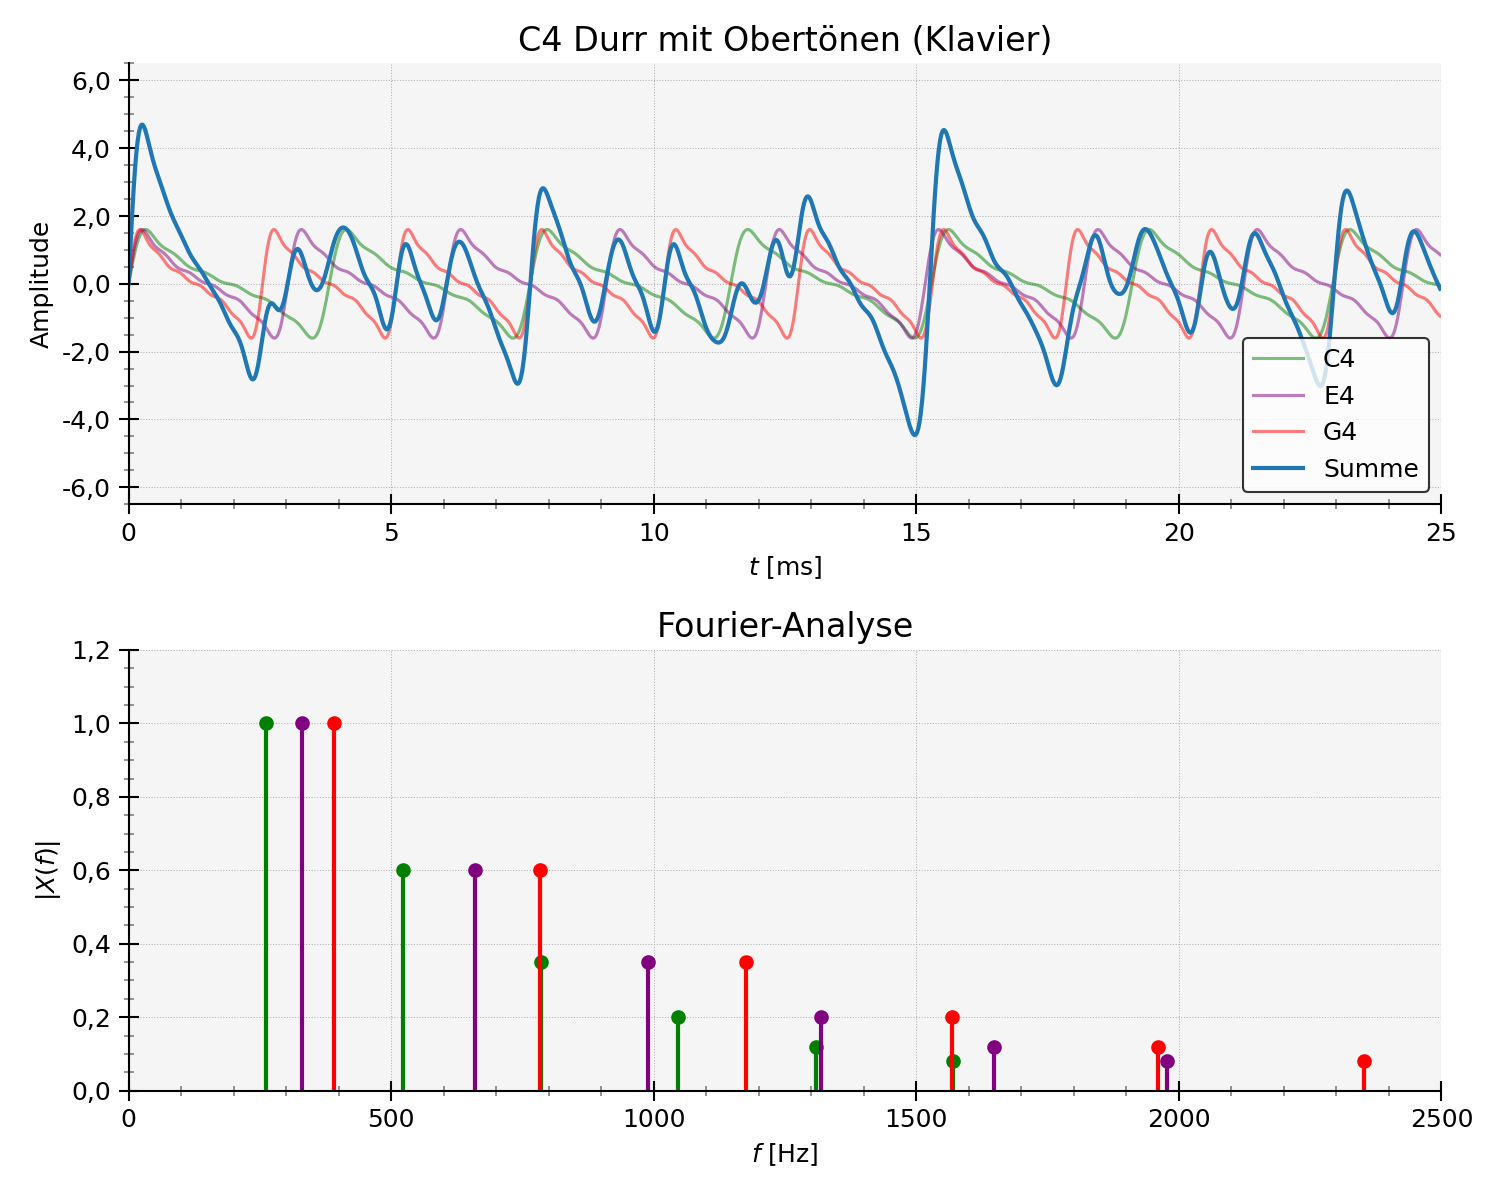
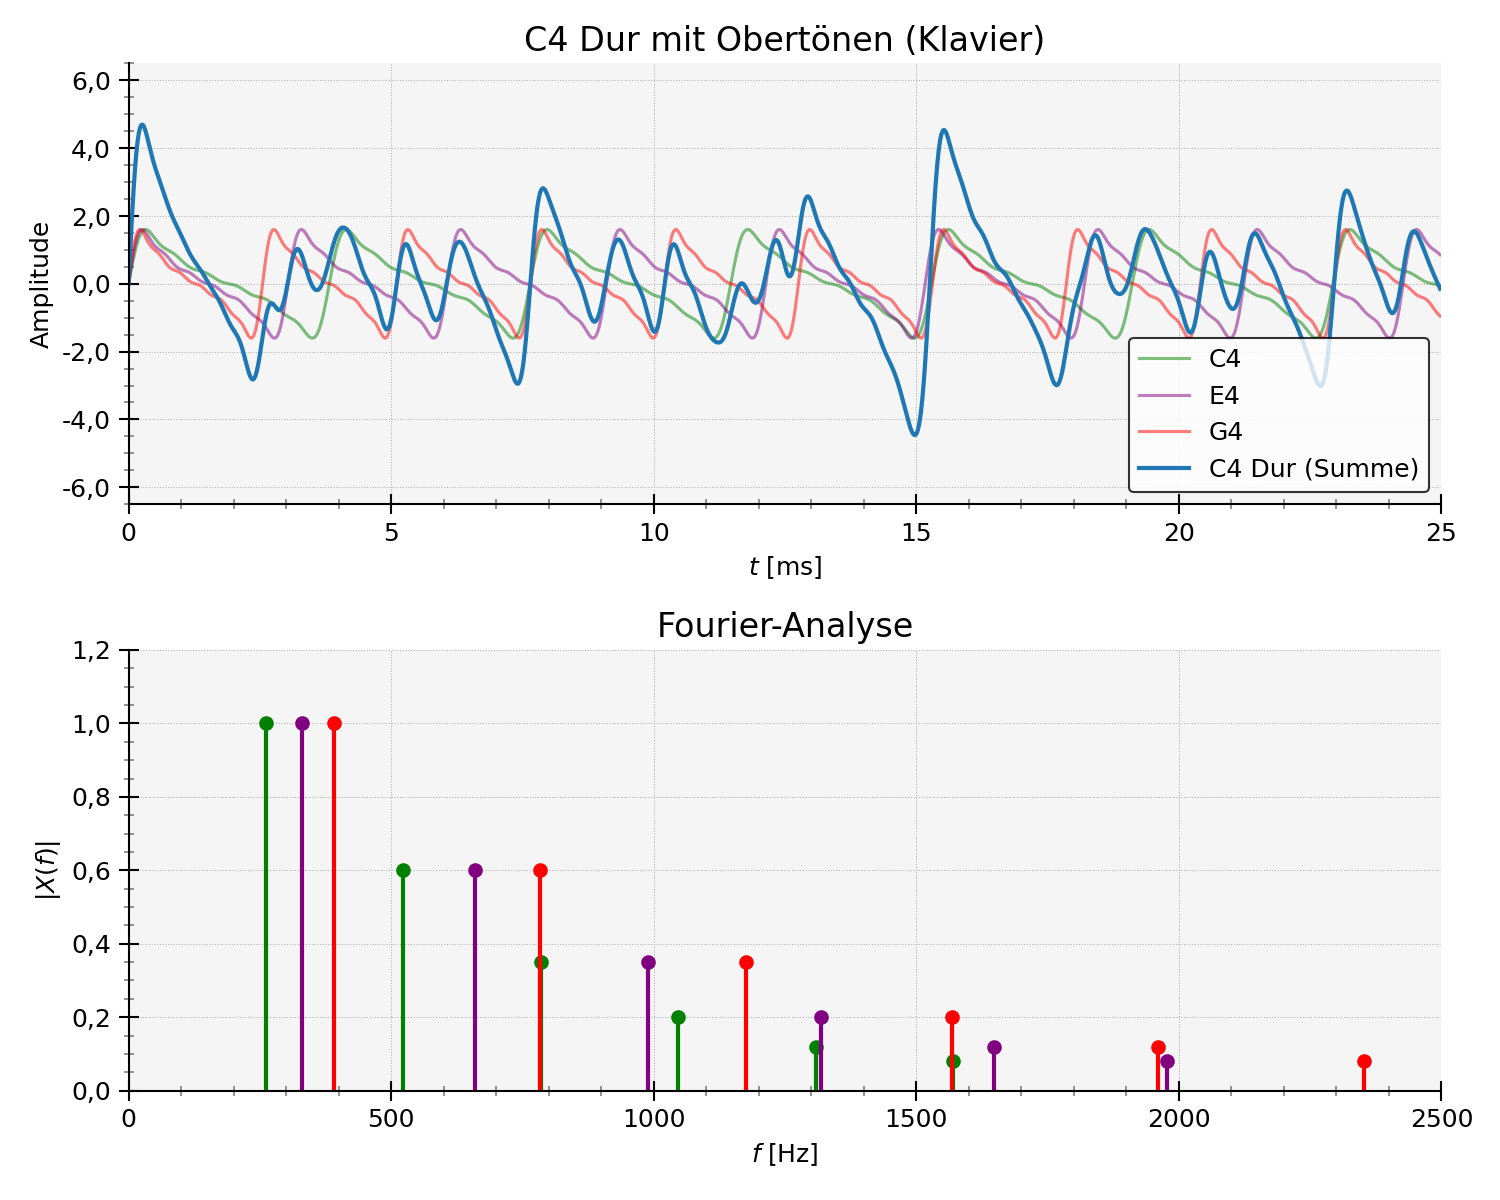
Update plot titles and labels for consistency in Fourier plot scripts

Changed region(s): [[0.3373, 0.0, 0.7053, 0.0617], [0.7667, 0.2775, 0.9507, 0.4008]]

diff --git a/source/python/rezepte/audio/toene_erzeugen_code/plot_fourier_akkord_obertoene.py b/source/python/rezepte/audio/toene_erzeugen_code/plot_fourier_akkord_obertoene.py
@@ -242,13 +242,13 @@ def chord_with_fft(
         ax_t.plot(t_time*1e3, tone, lw=1.5, color=color, alpha=0.5, label={name})
         tone = np.zeros_like(t_time)
 
-    ax_t.plot(t_time*1e3, sum, lw=2.0, color=ps.colors["blue"], label="Summe")
+    ax_t.plot(t_time*1e3, sum, lw=2.0, color=ps.colors["blue"], label=f"{note} {quality.capitalize()} (Summe)")
 
     ax_t.set_xlim(left=0, right=time*1e3)
     ax_t.set_ylim(bottom=-6.5, top=6.5)
     ax_t.set_xlabel(r"$t$ [ms]")
     ax_t.set_ylabel("Amplitude")
-    ax_t.set_title(f"{note} Durr mit Obertönen ({instrument.capitalize()})")
+    ax_t.set_title(f"{note} Dur mit Obertönen ({instrument.capitalize()})")
     ax_t.legend(
         loc="lower right",
         frameon=True,      # Rahmen aktivieren
@@ -279,7 +279,7 @@ def chord_with_fft(
 
 for instrument in list(INSTRUMENT_PARTIALS.keys()):
     PNG_PATH = FIG_DIR / (f"plot_akkord_C4-Major-{instrument}".replace("#", "is") + ".png")
-    fig, (ax_t, ax_f) = chord_with_fft("C4", "major", instrument=instrument, time=0.025, spp=1024, fmax_window=2500)
+    fig, (ax_t, ax_f) = chord_with_fft("C4", "dur", instrument=instrument, time=0.025, spp=1024, fmax_window=2500)
     fig.tight_layout()
     fig.savefig(PNG_PATH, dpi=150)
     plt.close(fig)

diff --git a/source/python/rezepte/audio/toene_erzeugen_code/plot_fourier_obertoene.py b/source/python/rezepte/audio/toene_erzeugen_code/plot_fourier_obertoene.py
@@ -112,13 +112,13 @@ def sine_with_fft(
         sum += x
         ax_t.plot(t_time*1e3, x, lw=1.5, color=color_keys[i-1], alpha=0.5)
     
-    ax_t.plot(t_time*1e3, sum, lw=2.0, color=ps.colors["blue"], label="Summe")
+    ax_t.plot(t_time*1e3, sum, lw=2.0, color=ps.colors["blue"], label=f"{note} (Summe)")
 
     ax_t.set_xlim(left=0, right=time*1e3)
     ax_t.set_ylim(bottom=-2.2, top=2.2)
     ax_t.set_xlabel(r"$t$ [ms]")
     ax_t.set_ylabel("Amplitude")
-    ax_t.set_title(f"{note} mit Obertönen ({instrument})")
+    ax_t.set_title(f"{note} mit Obertönen ({instrument.capitalize()})")
     ax_t.legend(
         loc="lower right",
         frameon=True,      # Rahmen aktivieren
